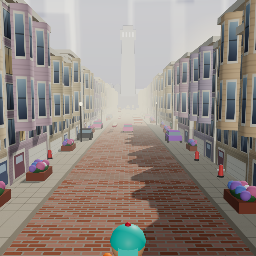
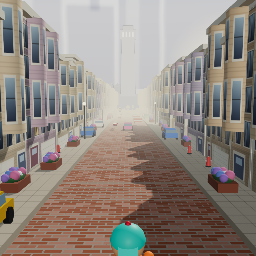
Show the destination monument as each run starts
Players did not know a monument was coming until the street ended. A
text hint said so three seconds into the run and was easy to miss. Now a
card shows the finished monument and its name for 2.8s as the run
starts. It sits in the sky, above the horizon line, so it never covers
the first obstacles; in landscape it drops below the street name.

The images are renders of the game's own monuments. A ?ui=monument route
builds the finished monument, hides the plaza, panorama and ghosts, and
frames it on a flat backdrop; test/capture-city-assets.mjs keys that out
to transparent PNGs, one per monument, in assets/monuments/. The keying
the souvenir capture already did is now one shared in-page function.
After the monuments are upgraded, `npm run assets:city -- --all`
regenerates these. It also rewrites every city's thumbnail and souvenir,
so restore the original four from git if you do not want them changed.

diff --git a/src/main.js b/src/main.js
@@ -307,17 +307,25 @@ function startRun() {
     state = 'run';
     showScreen(null);
     hint('◀ ▶ move · ▲ jump · ▼ roll — or swipe');
-    setTimeout(() => {
-      if (state === 'run') {
-        const lm = city().landmarks[level - 1];
-        const article = (lm === 'bigben' || lm === 'towerbridge') ? '' : 'the ';   // "Big Ben", but "the Colosseum"
-        hint(`${city().streets[level - 1]} — run to ${article}${LANDMARK_NAMES[lm]}!`);
-      }
-    }, 3000);
+    showGoal(city().landmarks[level - 1]);
     startMusic(city().id);
     state = 'run';
   });
 }
+
+// Where this street leads, shown as the run starts. It replaces a text hint
+// that appeared three seconds in and was easy to miss: players did not know a
+// monument was coming until the street ended.
+let goalTimer = 0;
+function showGoal(lm) {
+  $('hud-goal-img').src = `assets/monuments/${lm}.png`;
+  $('hud-goal-name').textContent = LANDMARK_NAMES[lm];
+  const el = $('hud-goal');
+  el.classList.add('on');
+  clearTimeout(goalTimer);
+  goalTimer = setTimeout(() => el.classList.remove('on'), 2800);
+}
+function hideGoal() { clearTimeout(goalTimer); $('hud-goal').classList.remove('on'); }
 
 let hintTimer = 0;
 function hint(text) {
@@ -536,6 +544,7 @@ function startPuzzle() {
   // debug URL that survives into a shipped build is a one-tap bypass.
   if (!dailyMode && !isLevelEntitled(city().id, level)) { openPaywall(); return; }
   stopMusic();
+  hideGoal();
   doFade(() => {
     disposeAll();
     scene = new THREE.Scene();
@@ -1284,6 +1293,35 @@ if (DEBUG_HOOKS && q.get('ui')) {
     showScreen(null);
     hud.classList.remove('on');
     state = 'souvenir';
+  }
+  else if (which === 'monument') {
+    // Renders one finished monument alone on a flat backdrop, for capturing
+    // the goal-card images (test/capture-city-assets.mjs). Everything the
+    // puzzle builds apart from the placed pieces — plaza, panorama, ghosts,
+    // particles — is hidden, and the camera frames the monument's own bounds.
+    // Needs &built=1 so every piece starts in place.
+    disposeAll();
+    scene = new THREE.Scene();
+    dressScene(scene, city());
+    const lm = city().landmarks[level - 1];
+    puzzle = new Puzzle(scene, camera, lm, level);
+    for (const it of puzzle.items) it.mesh.traverse((n) => { n.userData.keep = true; });
+    scene.traverse((n) => {
+      if ((n.isMesh || n.isPoints || n.isSprite || n.isLine) && !n.userData.keep) n.visible = false;
+    });
+    scene.fog = null;
+    scene.background = new THREE.Color(0x141a30);
+    const box = new THREE.Box3();
+    for (const it of puzzle.items) box.expandByObject(it.mesh);
+    const c = box.getCenter(new THREE.Vector3()), sz = box.getSize(new THREE.Vector3());
+    camera.fov = 30; camera.updateProjectionMatrix();
+    const fit = Math.max(sz.y, sz.x / camera.aspect, sz.z / camera.aspect);
+    const d = (fit / 2) / Math.tan(THREE.MathUtils.degToRad(camera.fov) / 2) * 1.25;
+    camera.position.set(c.x + d * 0.42, c.y + d * 0.16, c.z + d * 0.9);
+    camera.lookAt(c);
+    showScreen(null);
+    hud.classList.remove('on');
+    state = 'souvenir';     // render-only: the frame loop does nothing but draw
   }
   else if (which === 'portrait') {
     // Renders one character alone for capturing shop portraits. Deliberately

diff --git a/index.html b/index.html
@@ -54,6 +54,33 @@
     background:linear-gradient(90deg,var(--gold),#ff9e42);width:0%;transition:width .3s;
     box-shadow:0 1px 8px rgba(255,190,80,.55)}
   #hud-progress::after{content:"";position:absolute;inset:0 0 55% 0;background:rgba(255,255,255,.35);border-radius:inherit}
+  /* The goal card sits in the sky, above the horizon line (39% down the
+     frame in every aspect ratio, see track.js), so it never covers the
+     first obstacles coming up the road. */
+  #hud-goal{position:absolute;top:calc(88px + env(safe-area-inset-top));left:50%;
+    transform:translate(-50%,-8px) scale(.92);opacity:0;pointer-events:none;
+    transition:opacity .35s,transform .35s;text-align:center;padding:10px 20px 12px;
+    border-radius:18px;background:radial-gradient(ellipse at center,rgba(8,12,28,.62),rgba(8,12,28,0) 72%)}
+  #hud-goal.on{opacity:1;transform:translate(-50%,0) scale(1)}
+  #hud-goal .goal-kicker{font-size:11px;letter-spacing:4px;color:var(--gold);font-weight:800;
+    text-shadow:0 1px 6px rgba(0,0,0,.9)}
+  #hud-goal img{display:block;width:112px;height:112px;margin:4px auto 2px;
+    filter:drop-shadow(0 4px 10px rgba(0,0,0,.55))}
+  #hud-goal-name{font-size:16px;font-weight:800;text-shadow:0 1px 8px rgba(0,0,0,.95);white-space:nowrap}
+  body.reduced-motion #hud-goal{transform:translate(-50%,0);transition:opacity .2s}
+  /* Landscape: below the street-name line, and small enough to finish
+     at about the horizon so the road stays clear. */
+  @media (max-height:430px){
+    #hud-goal{top:80px;padding:2px 14px 4px}
+    #hud-goal .goal-kicker{font-size:9px;letter-spacing:3px}
+    #hud-goal img{width:52px;height:52px;margin:1px auto 0}
+    #hud-goal-name{font-size:12px}
+  }
+  @media (min-width:900px) and (min-height:600px){
+    #hud-goal img{width:170px;height:170px}
+    #hud-goal-name{font-size:22px}
+    #hud-goal .goal-kicker{font-size:14px}
+  }
   #hud-hint{position:absolute;bottom:90px;left:50%;transform:translateX(-50%);font-size:15px;opacity:0;
     transition:opacity .4s;background:var(--glass);padding:8px 20px;border-radius:999px;backdrop-filter:blur(8px);
     white-space:nowrap;max-width:94vw;overflow:hidden;text-overflow:ellipsis}
@@ -836,6 +863,9 @@
   <div id="hud-city">NEW YORK · LEVEL 1</div>
   <div id="hud-timer">60</div>
   <div id="hud-hint"></div>
+  <!-- Shown for a few seconds as each run starts: where this street leads.
+       Players reported not knowing a monument was coming at all. -->
+  <div id="hud-goal"><div class="goal-kicker">RUN TO</div><img id="hud-goal-img" alt=""><div id="hud-goal-name"></div></div>
   <button id="btn-pause" aria-label="Pause">❚❚</button>
   <div id="touchpad" aria-hidden="true">
     <button class="tbtn" id="t-left"  aria-label="Move left">◀</button>
